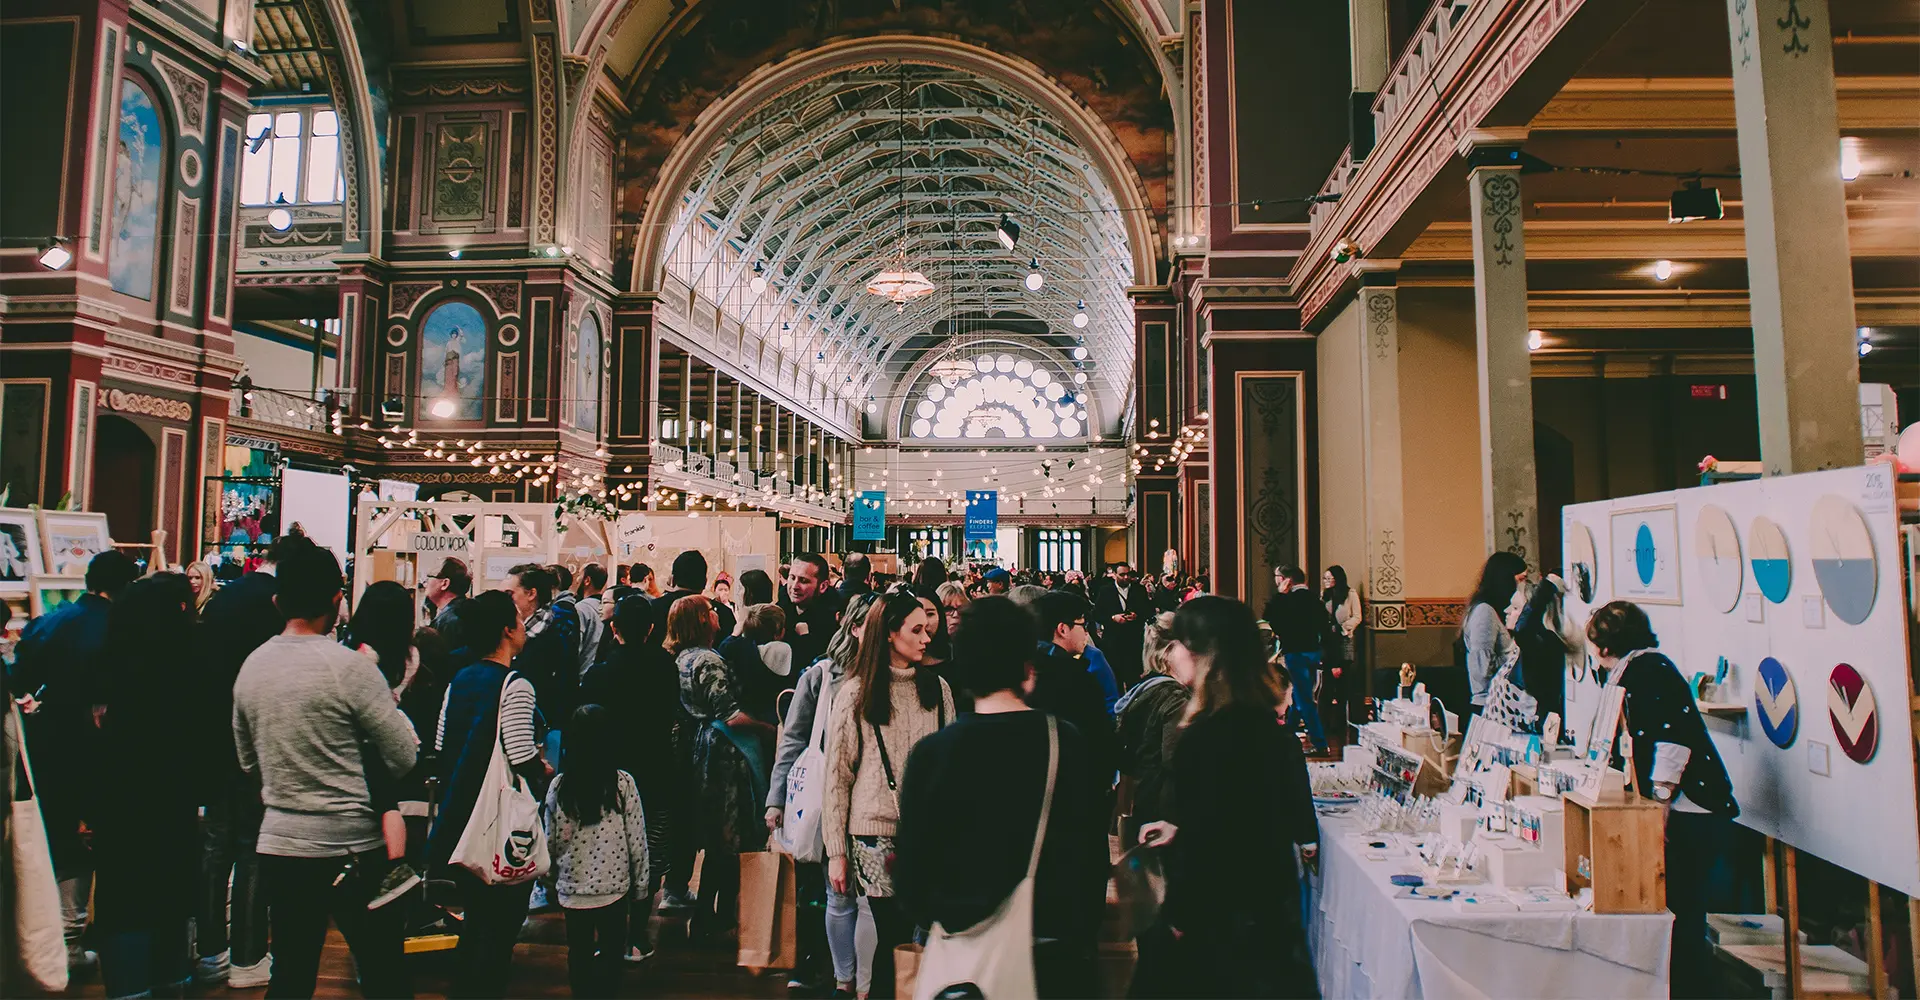
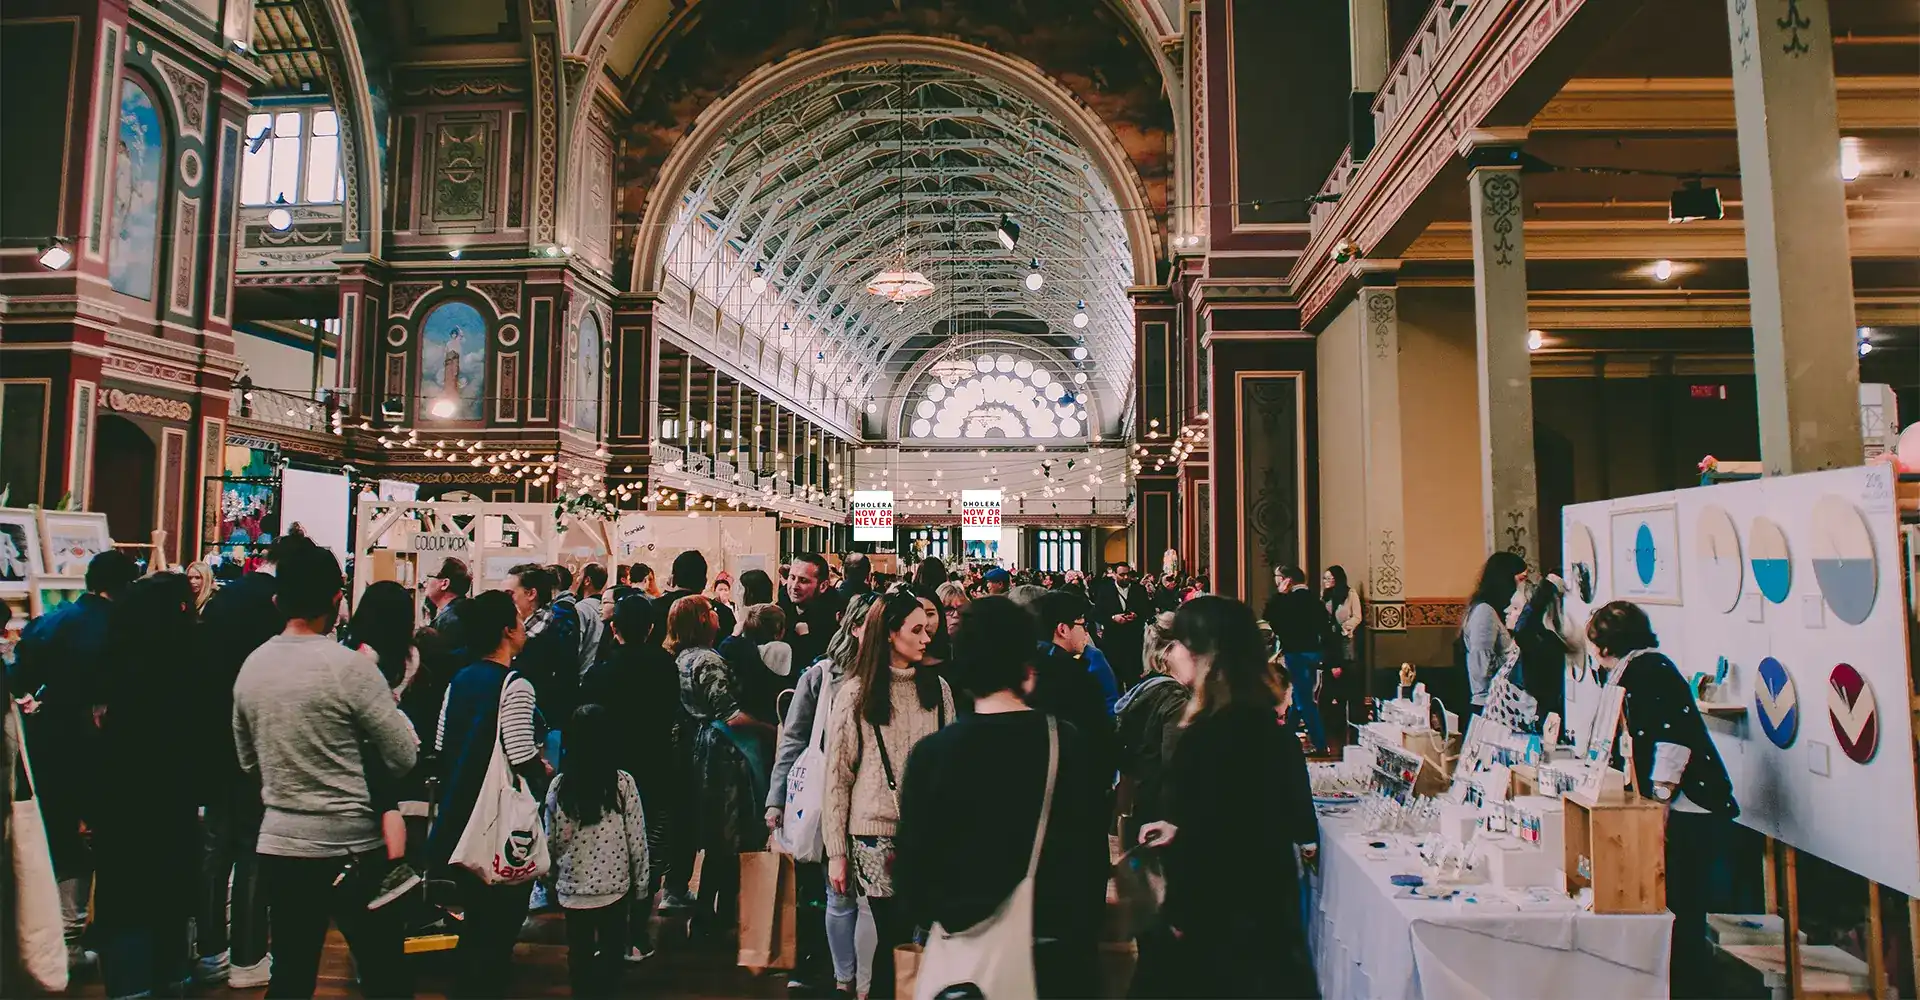
changes

Changed region(s): [[0.5, 0.465, 0.5312, 0.558], [0.4375, 0.465, 0.4688, 0.558]]

diff --git a/src/app/home/Sections/Faq.jsx b/src/app/home/Sections/Faq.jsx
@@ -25,7 +25,7 @@ const faqs = [
 ];
 
 export default function Faq() {
-  const [openIndex, setOpenIndex] = useState(0);
+  const [openIndex, setOpenIndex] = useState(null);
 
   return (
     <section
@@ -33,65 +33,121 @@ export default function Faq() {
       aria-labelledby="faq-title"
       className="bg-base px-[clamp(1rem,0.5rem+4vw,4rem)] py-[var(--space-section)] text-ink"
     >
-      <div className="mx-auto grid w-full max-w-[90rem] gap-[clamp(3rem,1.5rem+5vw,7rem)] lg:grid-cols-[0.72fr_1.28fr]">
-        <div data-reveal="right">
+      <div className="mx-auto w-full max-w-[90rem]">
+        <header
+          data-reveal="right"
+          className="mb-[clamp(2.5rem,1.5rem+3vw,5rem)] max-w-[48rem]"
+        >
+          <p className="mb-[clamp(0.75rem,0.5rem+0.8vw,1.25rem)] font-special text-[length:var(--fs-special)] tracking-[0.12em] text-accent uppercase">
+            Common questions
+          </p>
           <h2
             id="faq-title"
-            className="mt-[clamp(0.75rem,0.5rem+0.8vw,1.25rem)] text-accent max-w-[12ch] font-heading text-[length:var(--fs-h2)] leading-[1.08] font-bold"
+            className="font-heading text-[length:var(--fs-h2)] leading-[1.08] font-bold text-ink"
           >
             FAQs
           </h2>
-         
-        </div>
+          {/* <p className="mt-[clamp(1rem,0.75rem+0.8vw,1.5rem)] max-w-[35rem] font-body text-[length:var(--fs-body)] leading-[1.75] text-ink/80">
+            Find the essential event details, then reserve your place for free.
+          </p> */}
+        </header>
 
-        <div className="border-t border-ink">
-          {faqs.map(({ question, answer }, index) => {
-            const isOpen = openIndex === index;
-            const answerId = `faq-answer-${index}`;
+        <div className="grid items-start gap-[clamp(2.5rem,1.5rem+4vw,6rem)] lg:grid-cols-[1.35fr_0.65fr]">
+          <div className="grid gap-[clamp(0.9rem,0.65rem+0.8vw,1.35rem)]">
+            {faqs.map(({ question, answer }, index) => {
+              const isOpen = openIndex === index;
+              const answerId = `faq-answer-${index}`;
 
-            return (
-              <article
-                key={question}
-                data-reveal="line"
-                className="faq-line relative"
-                style={{ "--reveal-delay": `${index * 90}ms` }}
-              >
-                <h3>
-                  <button
-                    type="button"
-                    aria-expanded={isOpen}
-                    aria-controls={answerId}
-                    onClick={() => setOpenIndex(isOpen ? null : index)}
-                    className="group flex w-full items-center gap-[clamp(0.75rem,0.55rem+0.6vw,1.1rem)] py-[clamp(1.25rem,0.9rem+1vw,2rem)] text-left"
-                  >
-                    <span className="font-special text-[length:var(--fs-special)] text-accent">
-                      {String(index + 1).padStart(2, "0")}
-                    </span>
-                    <span className="flex-1 font-heading text-[clamp(1.1rem,0.95rem+0.55vw,1.5rem)] leading-snug font-semibold">
-                      {question}
-                    </span>
-                    <span
-                      aria-hidden="true"
-                      className={`faq-toggle relative h-[clamp(1.25rem,1rem+0.6vw,1.75rem)] w-[clamp(1.25rem,1rem+0.6vw,1.75rem)] shrink-0 ${
-                        isOpen ? "is-open" : ""
-                      }`}
-                    />
-                  </button>
-                </h3>
-
-                <div
-                  id={answerId}
-                  className={`faq-answer ${isOpen ? "is-open" : ""}`}
+              return (
+                <article
+                  key={question}
+                  className={`relative overflow-hidden transition-[background-color,color,box-shadow,transform] duration-300 ${
+                    isOpen
+                      ? "bg-ink text-[color:var(--color-base)] shadow-[0_clamp(1rem,0.75rem+1vw,2rem)_clamp(2rem,1.5rem+2vw,4rem)_rgba(23,23,26,0.18)]"
+                      : "bg-base text-ink shadow-[0_clamp(0.35rem,0.2rem+0.5vw,0.75rem)_clamp(1rem,0.75rem+1vw,2rem)_rgba(23,23,26,0.10)] hover:-translate-y-1"
+                  }`}
                 >
-                  <div className="overflow-hidden">
-                    <p className="max-w-[48rem] pb-[clamp(1.25rem,0.9rem+1vw,2rem)] pl-[clamp(2rem,1.5rem+1.5vw,3.25rem)] font-body text-[length:var(--fs-p-body)] leading-[1.8]">
-                      {answer}
-                    </p>
+                  <h3>
+                    <button
+                      type="button"
+                      aria-expanded={isOpen}
+                      aria-controls={answerId}
+                      onClick={() => setOpenIndex(isOpen ? null : index)}
+                      className="group flex w-full items-center gap-[clamp(0.75rem,0.55rem+0.6vw,1.1rem)] px-[clamp(1.25rem,0.9rem+1.2vw,2rem)] py-[clamp(1.25rem,0.9rem+1vw,2rem)] text-left"
+                    >
+                      <span className="min-w-[2ch] font-special text-[length:var(--fs-special)] text-accent">
+                        {String(index + 1).padStart(2, "0")}
+                      </span>
+                      <span
+                        className={`flex-1 font-heading text-[clamp(1.1rem,0.95rem+0.55vw,1.5rem)] leading-snug font-semibold transition-colors duration-300 ${
+                          isOpen
+                            ? "text-[color:var(--color-base)]"
+                            : "group-hover:text-accent"
+                        }`}
+                      >
+                        {question}
+                      </span>
+                      <span
+                        aria-hidden="true"
+                        className={`faq-toggle relative h-[clamp(1.25rem,1rem+0.6vw,1.75rem)] w-[clamp(1.25rem,1rem+0.6vw,1.75rem)] shrink-0 ${
+                          isOpen ? "is-open" : ""
+                        }`}
+                      />
+                    </button>
+                  </h3>
+
+                  <div
+                    id={answerId}
+                    className="grid transition-[grid-template-rows] duration-300 ease-in-out"
+                    style={{ gridTemplateRows: isOpen ? "1fr" : "0fr" }}
+                  >
+                    <div className="overflow-hidden">
+                      <p className="max-w-[48rem] px-[clamp(1.25rem,0.9rem+1.2vw,2rem)] pb-[clamp(1.5rem,1rem+1.2vw,2.5rem)] pl-[clamp(3.25rem,2.5rem+2vw,5rem)] font-body text-[length:var(--fs-p-body)] leading-[1.8] text-[color:var(--color-base)] opacity-80">
+                        {answer}
+                      </p>
+                    </div>
                   </div>
-                </div>
-              </article>
-            );
-          })}
+                </article>
+              );
+            })}
+          </div>
+
+          <aside
+            data-reveal="right"
+            aria-label="Event registration"
+            className="relative overflow-hidden bg-ink p-[clamp(1.5rem,1rem+2vw,3rem)] text-[color:var(--color-base)] shadow-[0_clamp(1rem,0.75rem+1vw,2rem)_clamp(2rem,1.5rem+2vw,4rem)_rgba(23,23,26,0.18)] lg:sticky lg:top-[clamp(6rem,5rem+3vw,8rem)]"
+          >
+            <span
+              aria-hidden="true"
+              className="absolute top-[clamp(1rem,0.5rem+2vw,2.5rem)] right-[clamp(1rem,0.5rem+2vw,2.5rem)] font-heading text-[clamp(4rem,2rem+7vw,8rem)] leading-none font-bold text-[color:var(--color-base)] opacity-10"
+            >
+              ?
+            </span>
+            <p className="relative font-special text-[length:var(--fs-special)] tracking-[0.12em] text-accent uppercase">
+              Free investor event
+            </p>
+            <h3 className="relative mt-[clamp(1rem,0.75rem+1vw,1.75rem)] max-w-[10ch] font-heading text-[clamp(1.75rem,1.3rem+1.6vw,2.75rem)] leading-[1.08] font-bold">
+              Ready to see the bigger picture?
+            </h3>
+            <p className="relative mt-[clamp(1rem,0.75rem+0.8vw,1.5rem)] font-body text-[length:var(--fs-body)] leading-[1.7] text-[color:var(--color-base)] opacity-80">
+              Meet the experts, understand the opportunity, and get your
+              questions answered in person.
+            </p>
+            <div className="relative mt-[clamp(1.75rem,1.25rem+1.5vw,2.75rem)]">
+              <p className="font-special text-[length:var(--fs-special)] text-[color:var(--color-base)] opacity-70">
+                8 August 2026 · Gurgaon
+              </p>
+              <a
+                href="https://wa.me/919910994247?text=Hi%20I'm%20Registering%20for%20Event"
+                target="_blank"
+                rel="noopener noreferrer"
+                className="mt-[clamp(1.25rem,1rem+0.8vw,1.75rem)] flex w-full items-center justify-between bg-accent px-[clamp(1rem,0.8rem+0.8vw,1.5rem)] py-[clamp(0.9rem,0.75rem+0.5vw,1.15rem)] font-special text-[length:var(--fs-special)] text-[color:var(--color-base)] transition-transform duration-300 hover:-translate-y-1"
+              >
+                Register for free
+                <span aria-hidden="true">↗</span>
+              </a>
+            </div>
+          </aside>
         </div>
       </div>
     </section>

diff --git a/src/app/globals.css b/src/app/globals.css
@@ -8,6 +8,7 @@
   --fs-h2: clamp(1.875rem, 1rem + 2vw, 2.75rem);
   --fs-body: clamp(1rem, 0.95rem + 0.3vw, 1.125rem);
   --fs-special: clamp(0.875rem, 0.8rem + 0.4vw, 1.125rem);
+  --fs-p-body: var(--fs-body);
   --space-section: clamp(3rem, 2rem + 4vw, 8rem);
 }
 
@@ -107,20 +108,6 @@ body {
   transform: scaleX(1);
 }
 
-.faq-answer {
-  display: grid;
-  grid-template-rows: 0fr;
-  opacity: 0;
-  transition:
-    grid-template-rows 450ms cubic-bezier(0.22, 1, 0.36, 1),
-    opacity 300ms ease;
-}
-
-.faq-answer.is-open {
-  grid-template-rows: 1fr;
-  opacity: 1;
-}
-
 .faq-toggle::before,
 .faq-toggle::after {
   position: absolute;
@@ -211,7 +198,6 @@ body {
   .motion-circle > div > span:last-child,
   .service-line::after,
   .faq-line::after,
-  .faq-answer,
   .faq-toggle::before,
   .faq-toggle::after {
     transition: none;
@@ -230,38 +216,3 @@ body {
     animation: none;
   }
 }
-
-
-/* @import "tailwindcss";
-
-
-:root {
-  --background: #ffffff;
-  --foreground: #17171a;
-  --fs-h1: clamp(3rem, 1.2rem + 3.5vw, 4.5rem);
-  --fs-h2: clamp(1.875rem, 1rem + 2vw, 2.75rem);
-  --fs-body: clamp(1rem, 0.95rem + 0.3vw, 1.125rem);
-  --fs-special: clamp(0.875rem, 0.8rem + 0.4vw, 1.125rem);
-  --fs-p-body: var(--fs-body);
-  --fs-p-special: var(--fs-special);
-  --fs-p-small: clamp(0.75rem, 0.72rem + 0.12vw, 0.875rem);
-  --space-section: clamp(3rem, 2rem + 4vw, 8rem);
-}
-
-@theme {
-  --color-background: #ffffff;
-  --color-foreground: #17171a;
-  --color-ink: #17171a;
-  --color-accent: #c91f2e;
-  --color-base: #ffffff;
-  --font-heading: "Akwe Pro", sans-serif;
-  --font-body: "Akwe Pro", sans-serif;
-  --font-special: "Akwe Pro", sans-serif;
-}
-
-body {
-  background: var(--background);
-  color: var(--foreground);
-  font-family: var(--font-body);
-}
- */

diff --git a/src/app/home/Sections/EventDetails.jsx b/src/app/home/Sections/EventDetails.jsx
@@ -140,12 +140,12 @@ export default function EventDetails() {
       >
         <div className="mx-auto grid w-full max-w-[90rem] gap-[clamp(3rem,1.5rem+5vw,7rem)] lg:grid-cols-[0.8fr_1.2fr]">
           <div>
-            <SectionEyebrow inverted>What We Do</SectionEyebrow>
+            <SectionEyebrow inverted>What We Offer</SectionEyebrow>
             <h2
               id="services-title"
               className="mt-[clamp(0.75rem,0.5rem+0.8vw,1.25rem)] max-w-[16ch] font-heading text-[length:var(--fs-h2)] leading-[1.08] font-bold"
             >
-              From Understanding Dholera to Making Better Decisions
+              Helping You Invest in Dholera with Confidence
             </h2>
             <PopupFormButton className="mt-[clamp(1.75rem,1.25rem+1.6vw,3rem)] inline-flex min-h-[clamp(2.75rem,2.4rem+1vw,3.5rem)] items-center justify-center rounded-full border border-accent bg-accent px-[clamp(1.5rem,1.1rem+1.2vw,2.25rem)] font-special text-[length:var(--fs-special)] text-[var(--color-base)] transition-colors hover:bg-base hover:text-accent focus-visible:bg-base focus-visible:text-accent">
               Reserve a Free Seat Today

diff --git a/src/app/home/Sections/Whyjoin.jsx b/src/app/home/Sections/Whyjoin.jsx
@@ -95,7 +95,7 @@ export default function WhyJoin() {
           </h2>
 
           <blockquote className="mt-[clamp(1.5rem,1rem+1.5vw,2.5rem)] border-l-[clamp(0.2rem,0.15rem+0.15vw,0.3rem)] border-accent pl-[clamp(0.75rem,0.5rem+0.8vw,1.25rem)] font-special text-[clamp(1.1rem,0.9rem+0.8vw,1.6rem)] leading-snug text-accent">
-            Be part of India&apos;s next big growth story.
+            Be part of India&apos;s next Big Growth story.
           </blockquote>
 
           <p className="mt-[clamp(1.25rem,0.85rem+1.2vw,2rem)] max-w-[42rem] font-body text-[length:var(--fs-p-body)] leading-[1.8]">
